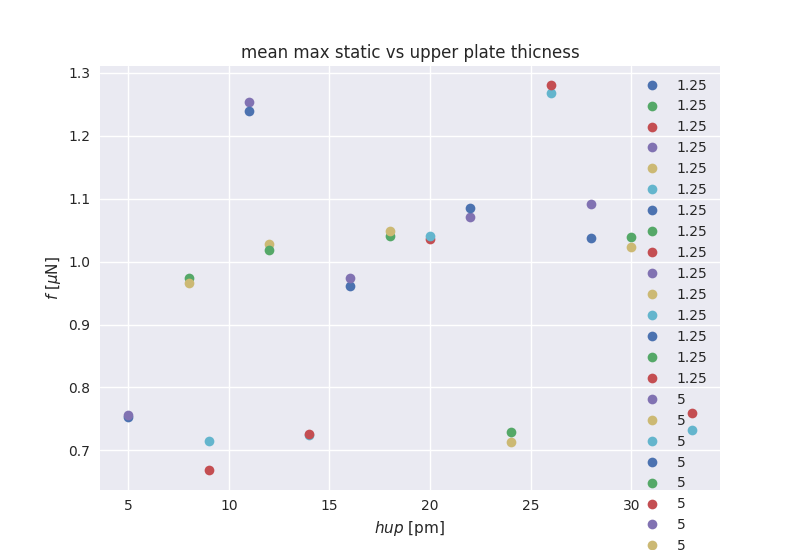
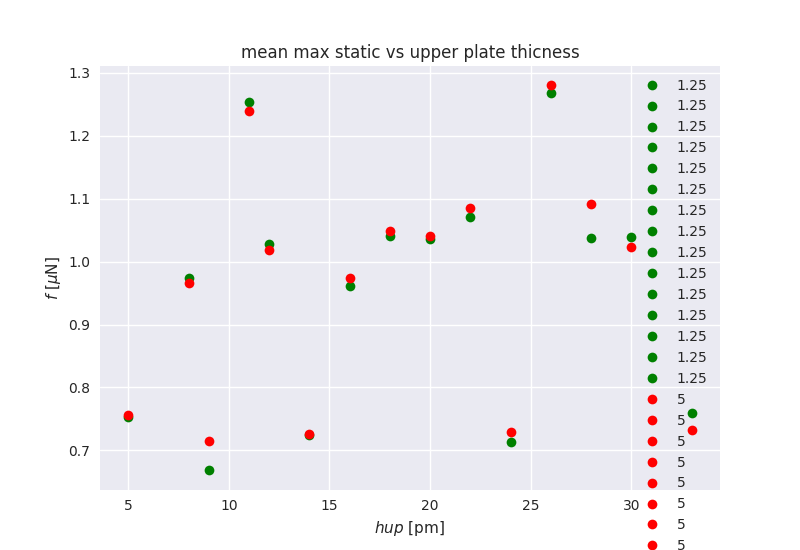
fig tweak

diff --git a/python/plot/plot_max_static.py b/python/plot/plot_max_static.py
@@ -106,13 +106,14 @@ def plot_max_static_vs_thiccness():
     all_mean_static = np.zeros(len(seeds[1.25])*2)
 
     fig_num = 0
-    
+   
+    colours = {1.25: 'go', 5:'ro'}
     for vel, _seeds in seeds.items():
         for i, seed in enumerate(_seeds):
             ms_all, mean_static = load_max_static(temp, vel, force, orientation, grid, 
                                                   template_lc, template_ms, seed) 
             all_mean_static[i] = mean_static
-            plt.plot(hup[i], mean_static, 'o', label=vel)
+            plt.plot(hup[i], mean_static, colours[vel], label=vel)
             #for ms in ms_all:
             #    plt.plot(hup[i], ms, 'ob')
         plt.legend()
